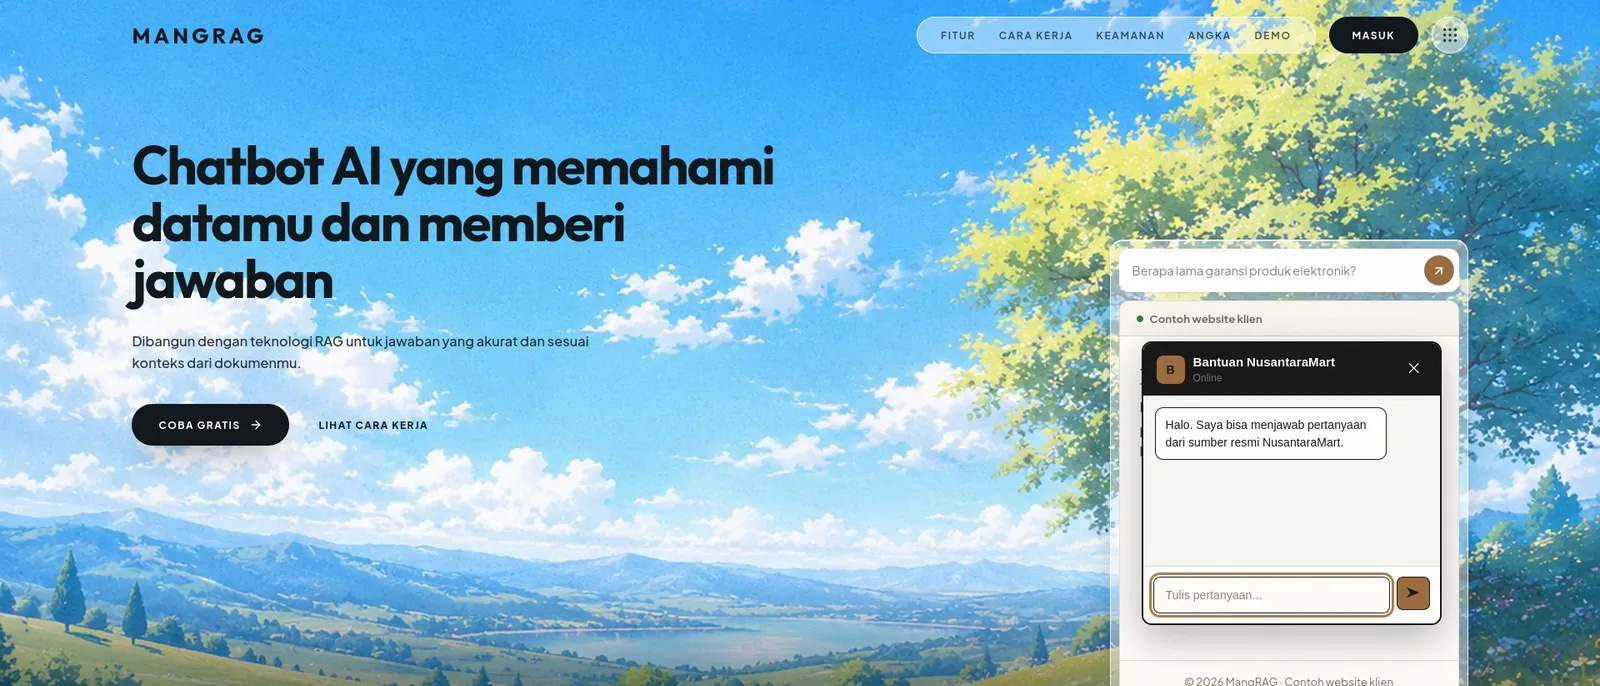
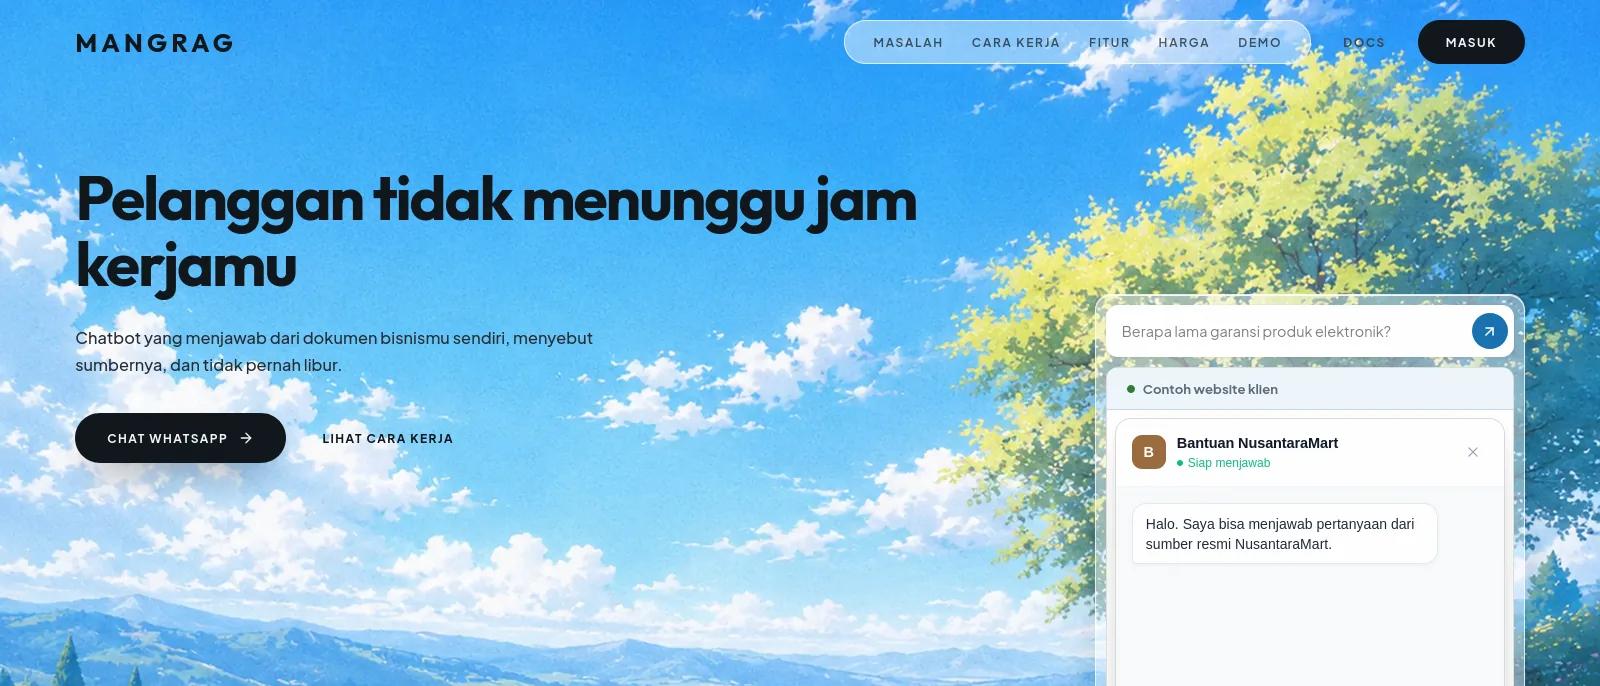
feat(projects): refresh the MangRAG card to match the new product
MangRAG relaunched as a paid, self-serve product: new hero, monthly
plans, per-bot branding, domain allowlisting and streamed answers. The
card copy still described the old positioning (rate limiting, readiness
score) and the cover was a screenshot of the previous design.

Copy now states what the product does now, and the cover is a fresh
capture of the live hero with the demo bot visible.

diff --git a/lib/content.ts b/lib/content.ts
@@ -193,11 +193,11 @@ export const en = {
       title: "MangRAG",
       kind: "RAG SaaS",
       summary:
-        "A SaaS for building RAG chatbots that clients install with a single snippet: upload a PDF, the system builds a knowledge base, and answers always cite their sources. Includes cross-instance rate limiting, multi-user auth, and a bot readiness score.",
+        "A SaaS that puts an answer bot on a business's own site, trained on its own documents: upload a catalogue or FAQ, paste one line of code, and every reply cites its source. Bots wear the client's own colours and greeting, run only on domains the owner allows, and start answering in the first second. Sold on monthly plans from IDR 75k to IDR 999k.",
       tags: ["Next.js", "Supabase", "Gemini", "RAG"],
       year: "2026",
       image: mangragShot,
-      imageAlt: "MangRAG landing page with hero and chatbot demo",
+      imageAlt: "MangRAG landing page with an illustrated hero and the demo chatbot answering from a sample store",
       live: "https://mangrag.vercel.app",
     },
     {
@@ -402,11 +402,11 @@ export const id: typeof en = {
       title: "MangRAG",
       kind: "RAG SaaS",
       summary:
-        "SaaS untuk membuat chatbot RAG yang dipasang klien lewat satu baris snippet: upload PDF, sistem membangun knowledge base, dan jawaban selalu menyertakan sitasi sumber. Dilengkapi rate limit lintas instance, autentikasi multi-user, dan skor kesiapan bot.",
+        "SaaS yang memasang bot penjawab di website bisnis, dijawab dari dokumennya sendiri: unggah katalog atau FAQ, tempel satu baris kode, dan setiap jawaban menyebut sumbernya. Bot memakai warna dan sapaan milik klien, hanya hidup di domain yang diizinkan pemiliknya, dan mulai menjawab sejak detik pertama. Dijual dengan paket bulanan Rp75rb sampai Rp999rb.",
       tags: ["Next.js", "Supabase", "Gemini", "RAG"],
       year: "2026",
       image: mangragShot,
-      imageAlt: "Halaman depan MangRAG dengan hero dan demo chatbot",
+      imageAlt: "Halaman depan MangRAG dengan hero ilustrasi dan demo chatbot menjawab dari toko contoh",
       live: "https://mangrag.vercel.app",
     },
     {
